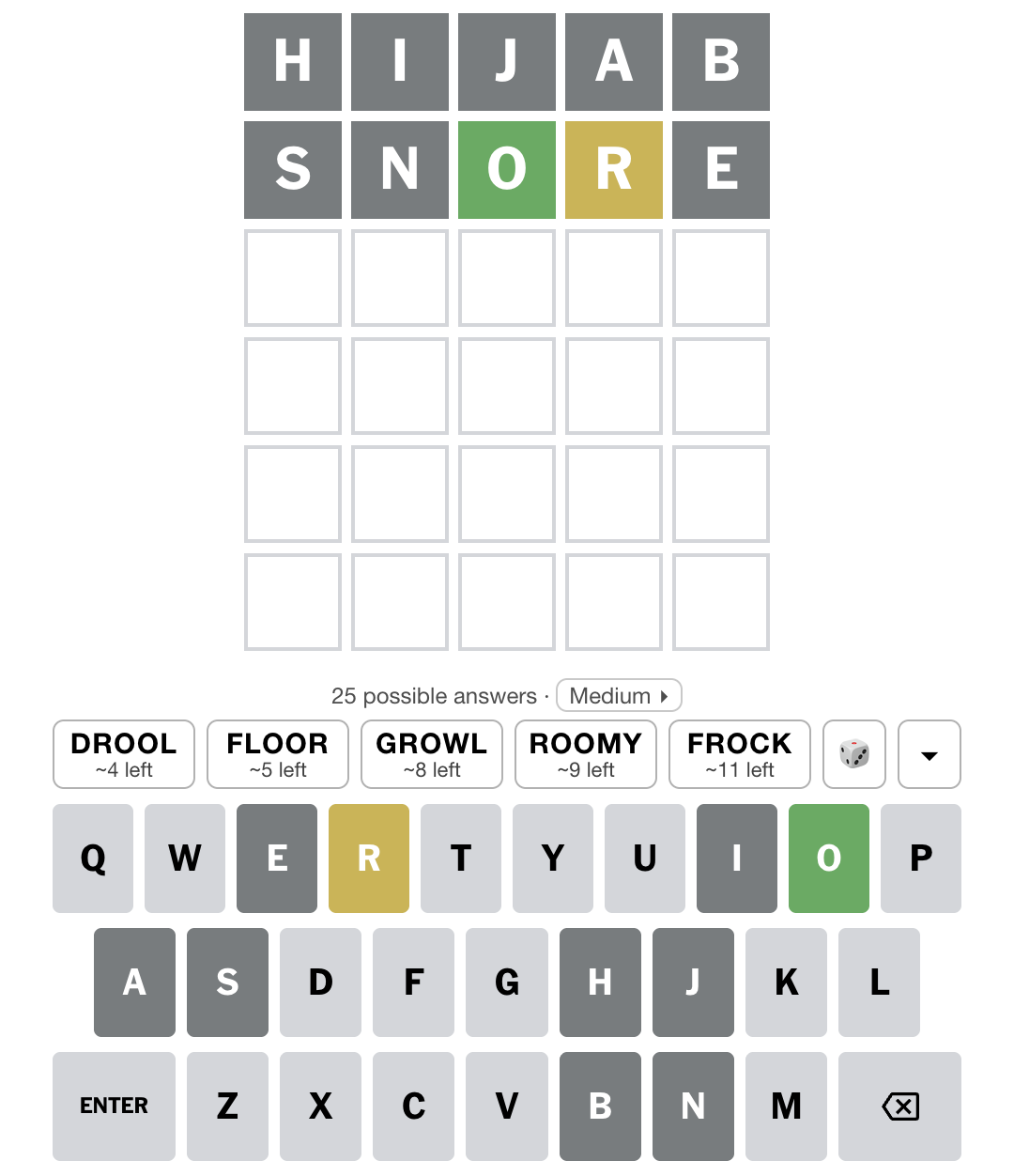
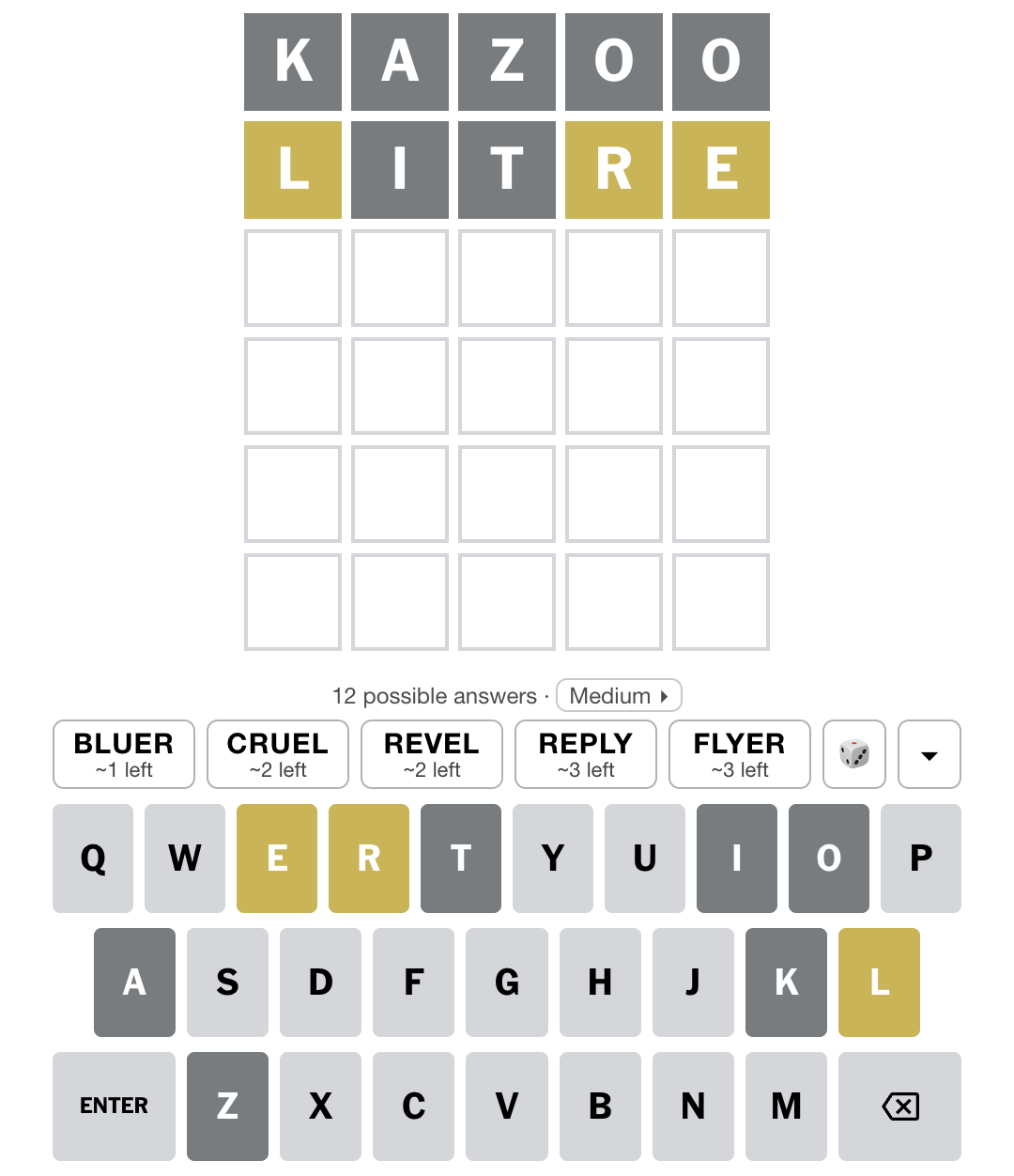
Wordle Shortlist docs: new intro line, KAZOO screenshots
Claude-Session: https://claude.ai/code/session_011prWotKKBnM7FjSy3w3Dg5

diff --git a/wordle/README.md b/wordle/README.md
@@ -1,18 +1,18 @@
 # Wordle Shortlist
 
-For people who want to have played Wordle today without really playing Wordle.
+For people who want to play the daily Wordle without really playing Wordle.
 
 You get a random starting word (not CRANE, not SLATE, just whatever comes up), then each turn a shortlist of five words that could be the answer. Tap one. That's the job. It's easy, but it isn't autopilot: the five aren't equally good, so there's still a right call to make, and on Hard nobody tells you which one it is.
 
 **Install:** [GitHub](https://raw.githubusercontent.com/dividedby/games-scripts/main/wordle/wordle-shortlist.user.js) · [Changelog](../CHANGELOG.md#wordle-shortlist)
 
 <p align="center">
-  <img src="../docs/images/wordle/desktop-board.png" alt="Wordle after HIJAB and SNORE: above the keyboard, '25 possible answers · Medium' and a shortlist of DROOL, FLOOR, GROWL, ROOMY and FROCK, each with about how many answers it would leave" width="460">
+  <img src="../docs/images/wordle/desktop-board.png" alt="Wordle after KAZOO and LITRE: above the keyboard, '12 possible answers · Medium' and a shortlist of BLUER, CRUEL, REVEL, REPLY and FLYER, each with about how many answers it would leave" width="460">
 </p>
 
 ## How it works
 
-1. Install the script (see [Installing](../README.md#installing)) and open Wordle. Above the keyboard you get a starting word: any of the roughly 3,000 likely answers, picked at random. Some days it's a decent opener. Some days it's HIJAB.
+1. Install the script (see [Installing](../README.md#installing)) and open Wordle. Above the keyboard you get a starting word: any of the roughly 3,000 likely answers, picked at random. Some days it's a decent opener. Some days it's KAZOO.
 2. Tap it to play it, or type your own word if you feel strongly.
 3. After each guess you get 5 picks, and every one of them could be the answer: no clever filler words that only narrow things down, so you're always playing by hard mode's rules. Under each word is roughly how many answers would still be possible if it isn't the one (fewer is better). The line above says how many answers still fit.
 4. Tap a pick to play it. Anything you'd already typed is cleared first.
@@ -23,7 +23,7 @@ The picks are drawn at random from the best possible answers, so some are better
 <details>
 <summary>Screenshot: the recap</summary>
 <br>
-<img src="../docs/images/wordle/desktop-recap.png" alt="The finished board, HIJAB, SNORE, DROOL, DROOP, with 'Solved in 4 · best pick 1 of 2 · Medium' below it" width="320">
+<img src="../docs/images/wordle/desktop-recap.png" alt="The finished board, KAZOO, LITRE, GRUEL, ELDER, FLYER, with 'Solved in 5 · best pick 2 of 3 · Medium' below it" width="320">
 </details>
 
 ## Levels
@@ -39,7 +39,7 @@ Tap the level in the line above the picks (**Medium ▸**) to switch it, any tim
 <details>
 <summary>Screenshot: Hard</summary>
 <br>
-<img src="../docs/images/wordle/hard-strip.png" alt="The same turn on Hard: TROMP, DROOL, GROOM, VROOM and CROCK, with no hints" width="460">
+<img src="../docs/images/wordle/hard-strip.png" alt="The same turn on Hard: BLUER, GRUEL, ULCER, RULER and ELDER, with no hints" width="460">
 </details>
 
 ## Buttons

diff --git a/wordle/greasyfork-description.md b/wordle/greasyfork-description.md
@@ -7,7 +7,7 @@ allows img width/height, <center> and <details>.
 The full README (with the dev/test info) lives on GitHub.
 -->
 
-For people who want to have played **NYT Wordle** today without really playing Wordle.
+For people who want to play the daily **NYT Wordle** without really playing Wordle.
 
 You get a random starting word (not CRANE, not SLATE, just whatever comes up), then
 each turn a shortlist of five words that could be the answer. Tap one. That's the job.
@@ -15,13 +15,13 @@ It's easy, but it isn't autopilot: the five aren't equally good, so there's stil
 right call to make. Works on desktop, iPhone and Android.
 
 <center>
-<img src="https://raw.githubusercontent.com/dividedby/games-scripts/main/docs/images/wordle/desktop-board.png" alt="Wordle after HIJAB and SNORE: '25 possible answers · Medium' and a shortlist of DROOL, FLOOR, GROWL, ROOMY and FROCK above the keyboard" width="340">
+<img src="https://raw.githubusercontent.com/dividedby/games-scripts/main/docs/images/wordle/desktop-board.png" alt="Wordle after KAZOO and LITRE: '12 possible answers · Medium' and a shortlist of BLUER, CRUEL, REVEL, REPLY and FLYER above the keyboard" width="340">
 </center>
 
 **What it does**
 
 - A **starting word** picked at random from about 3,000 likely answers. Some days
-  it's a decent opener. Some days it's HIJAB.
+  it's a decent opener. Some days it's KAZOO.
 - After each guess, **five picks**, every one a possible answer, so you're always
   playing by hard mode's rules. Each shows roughly how many answers would be left
   if it isn't the one; the line above shows how many still fit.
@@ -41,9 +41,9 @@ The recap names the easiest level you used, so dropping to Easy for one turn sho
 <summary>More screenshots</summary>
 
 <center>
-<img src="https://raw.githubusercontent.com/dividedby/games-scripts/main/docs/images/wordle/hard-strip.png" alt="The same turn on Hard: TROMP, DROOL, GROOM, VROOM and CROCK, with no hints" width="460">
+<img src="https://raw.githubusercontent.com/dividedby/games-scripts/main/docs/images/wordle/hard-strip.png" alt="The same turn on Hard: BLUER, GRUEL, ULCER, RULER and ELDER, with no hints" width="460">
 <br><br>
-<img src="https://raw.githubusercontent.com/dividedby/games-scripts/main/docs/images/wordle/desktop-recap.png" alt="The finished board with 'Solved in 4 · best pick 1 of 2 · Medium' below it" width="260">
+<img src="https://raw.githubusercontent.com/dividedby/games-scripts/main/docs/images/wordle/desktop-recap.png" alt="The finished board with 'Solved in 5 · best pick 2 of 3 · Medium' below it" width="260">
 </center>
 </details>
 
